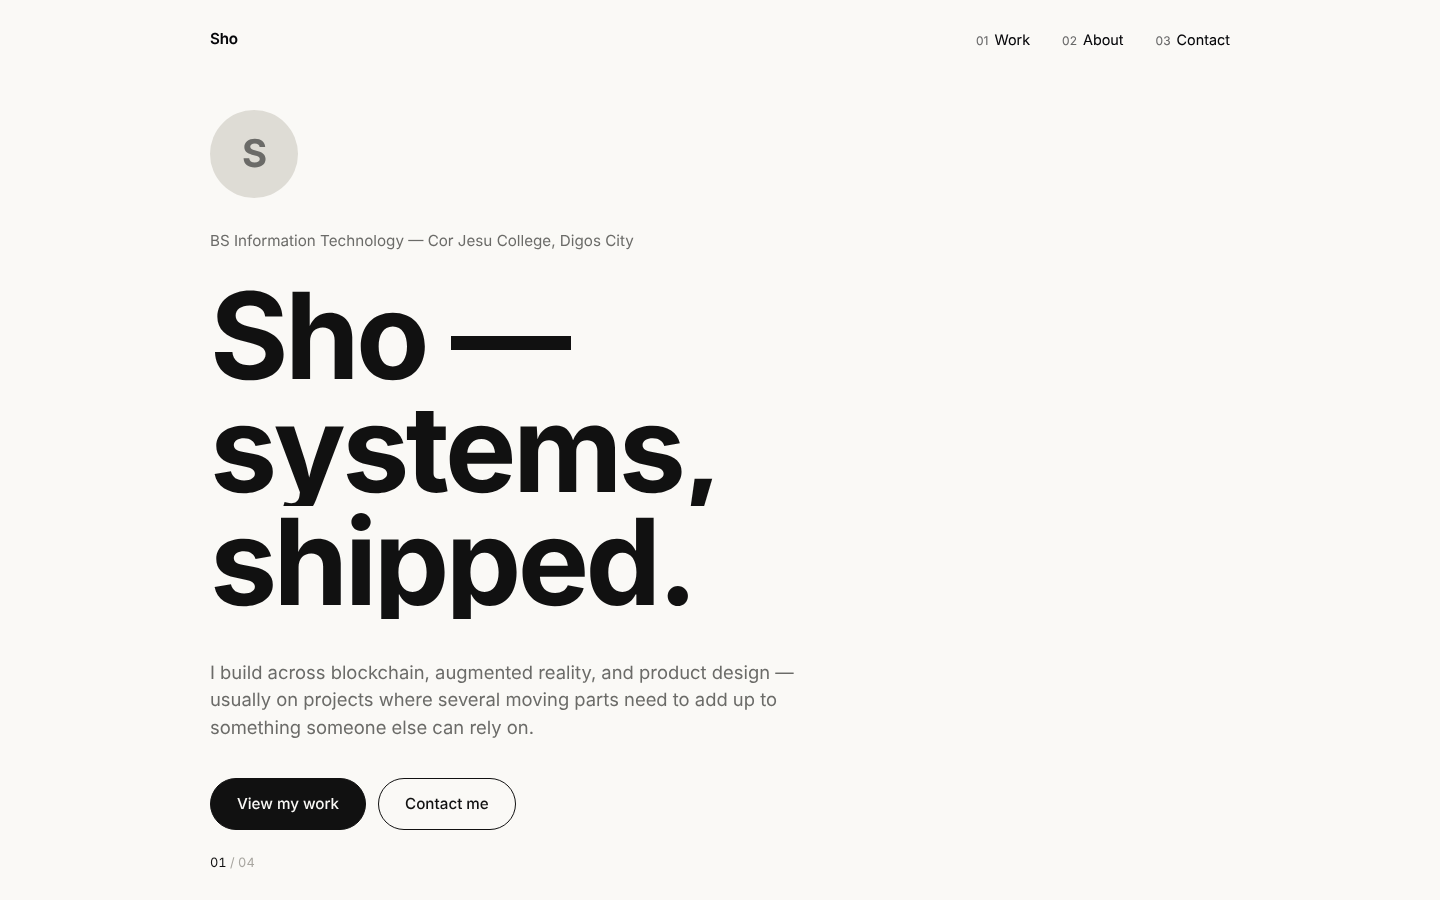
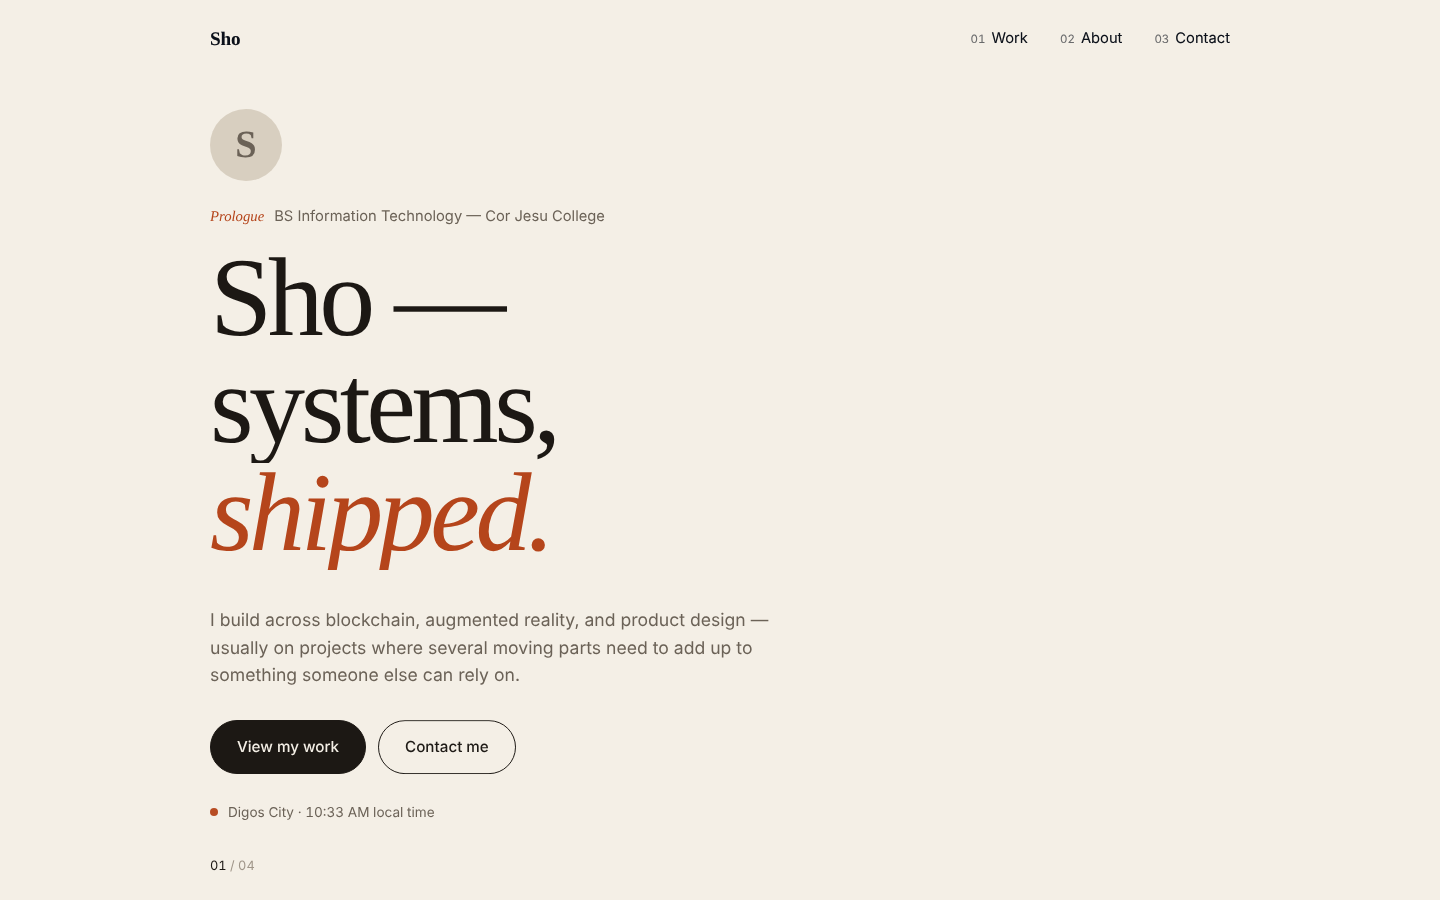
docs: update README for the new design and refresh screenshot
Claude-Session: https://claude.ai/code/session_01UoAHmyjtgmobTzWGBiiym8

diff --git a/README.md b/README.md
@@ -1,23 +1,24 @@
 # Portfolio
 
-Personal portfolio for Sho, a BS Information Technology student at Cor Jesu College (Digos City). A single-page site with an animated hero, a project card grid, an about section, and contact links, built with React and GSAP.
+Personal portfolio for Sho, a BS Information Technology student at Cor Jesu College (Digos City). A chaptered, editorial site with an animated hero, a live local-time clock, a project card grid, a short About section plus a full About page, and contact links, built with React and GSAP.
 
 ![Portfolio screenshot](docs/screenshot.png)
 
 ## Tech stack
 
 - [React 18](https://react.dev) + [Vite](https://vitejs.dev)
-- [React Router 6](https://reactrouter.com) — routing, with a 404 page and hash-based section links
+- [React Router 6](https://reactrouter.com) — routes for Home and About, a 404 page, and hash-based section links
 - [GSAP](https://gsap.com) + ScrollTrigger — hero entrance timeline and scroll-triggered reveals
 - Plain CSS with custom properties, mobile-first
+- Fraunces (serif) and Inter (sans) from Google Fonts
 
 ## Project structure
 
 ```
 src/
-  components/   Nav, Hero, About, Projects, ProjectCard, Contact, Footer, Portrait, ScrollManager
-  pages/        Home, NotFound
-  data/         site.js (name, links) and projects.js (project cards)
+  components/   Nav, Hero, Clock, About, Projects, ProjectCard, Contact, Footer, Portrait, ScrollManager
+  pages/        Home, About, NotFound
+  data/         portfolio.js — all personal content in one file
   index.css     design tokens and all styles
 ```
 
@@ -39,8 +40,9 @@ npm run preview   # serve the production build locally
 
 ## Customizing
 
-- **Your details** — edit `src/data/site.js`. Links left empty are hidden automatically.
-- **Projects** — edit `src/data/projects.js`. Each entry takes a title, description, tech list, `image`, `github`, and `demo`.
+- **Everything** — edit `src/data/portfolio.js`. It holds your details, projects, and About content. Links left empty are hidden automatically.
+- **Projects** — each entry takes a title, description, tech list, `image`, `github`, and `demo`.
+- **Clock** — set `timezone` in `portfolio.js` to change the city time shown in the hero.
 - **Screenshots** — save images in `public/projects/` and set `image: '/projects/your-file.png'`.
 - **Photo** — save a portrait as `public/profile.jpg`. An initial is shown until it exists.
 
